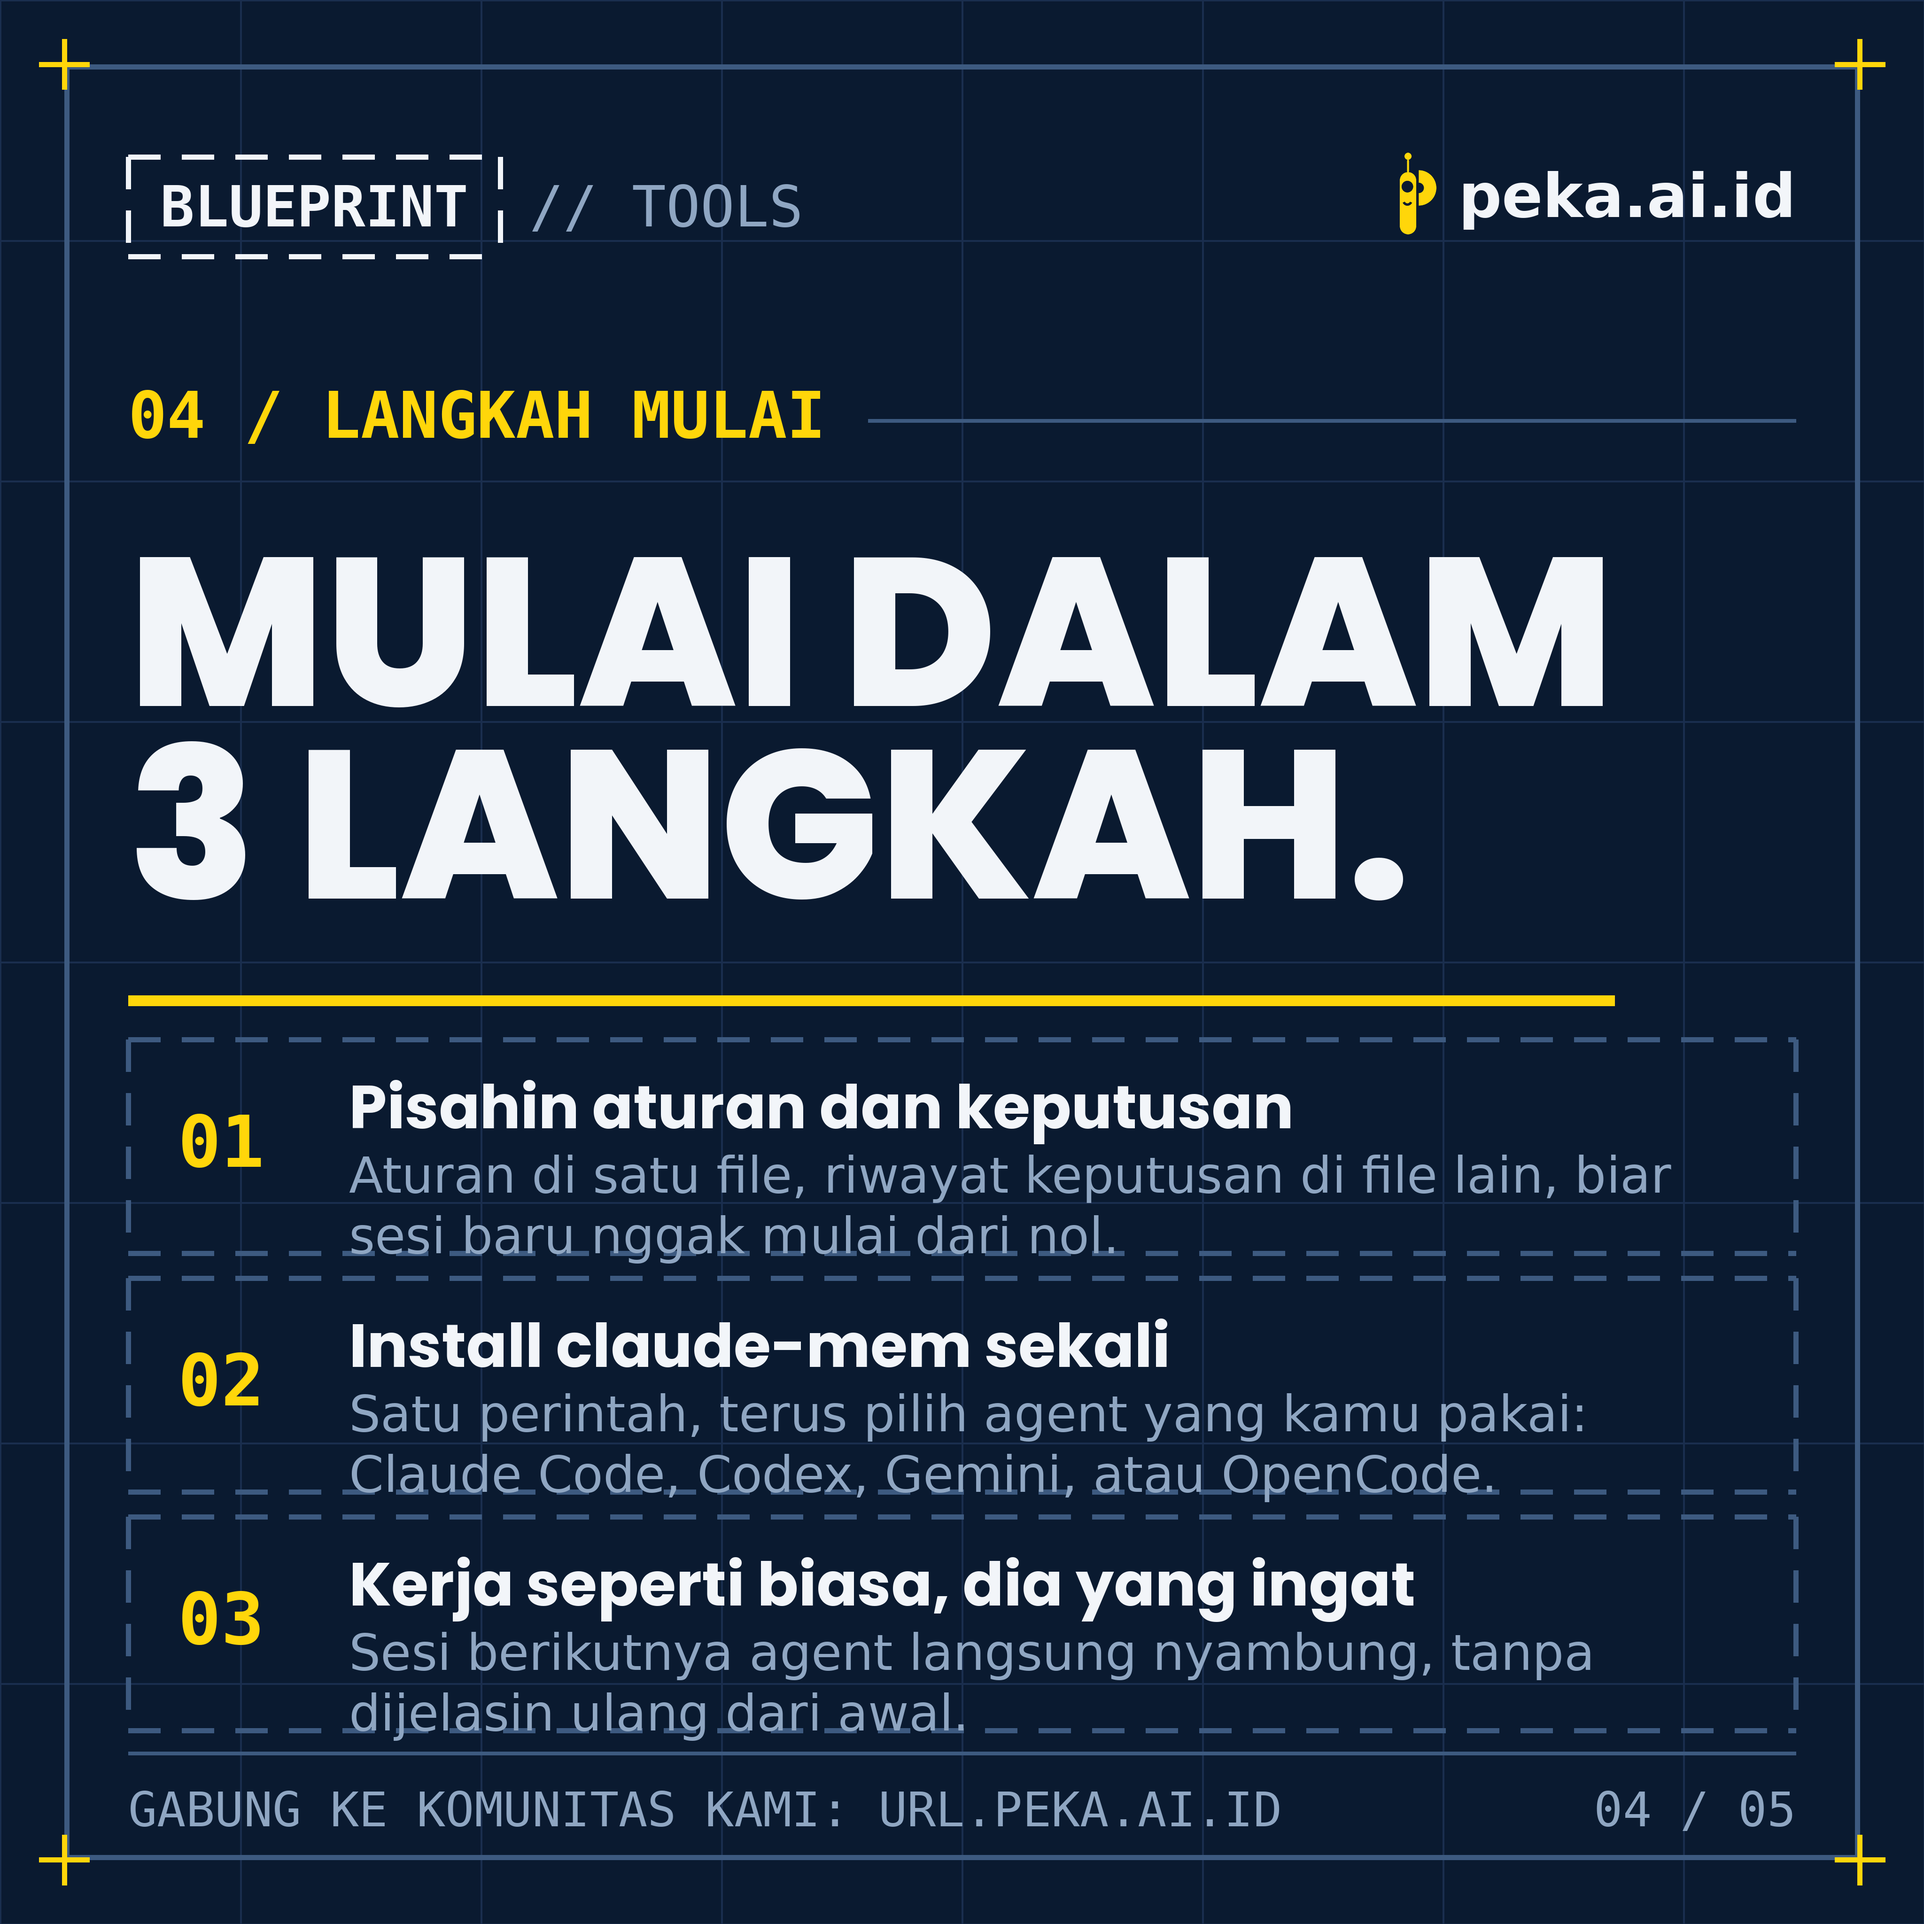
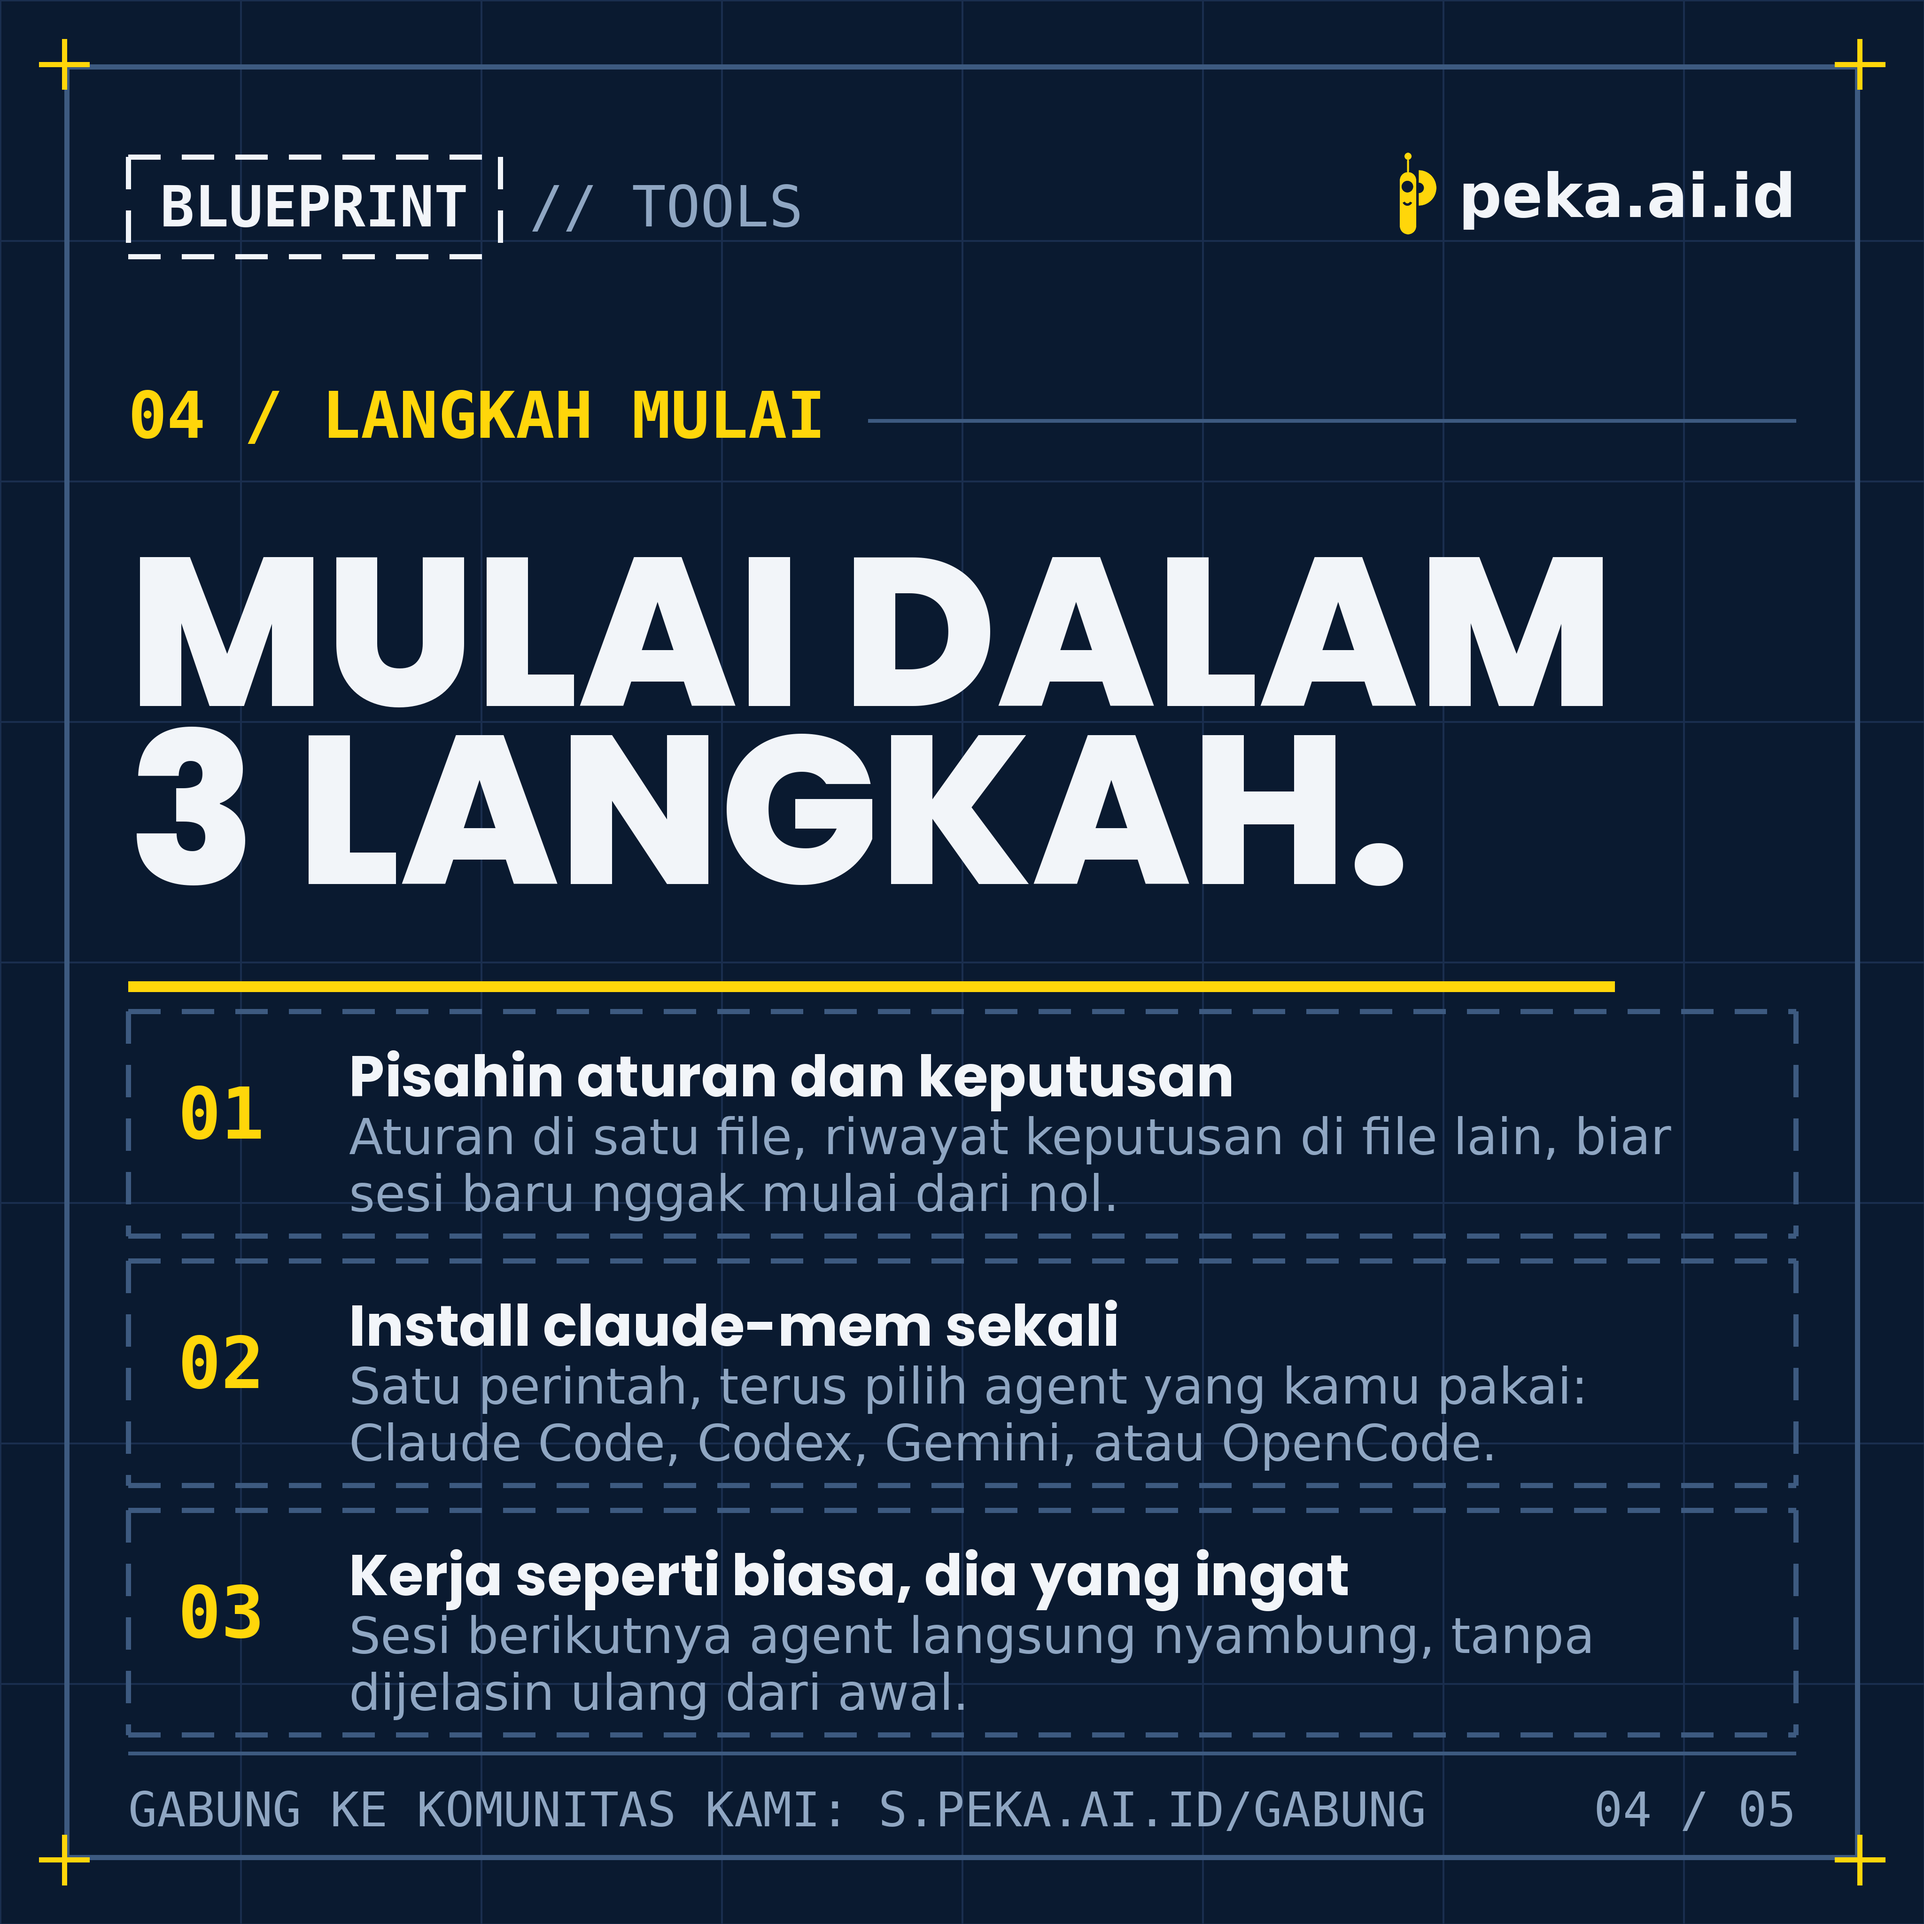
Auto sync 2026-11-13 13:22

diff --git a/blueprint/out/2026-11-06-claude-mem/post_threads_retry.py b/blueprint/out/2026-11-06-claude-mem/post_threads_retry.py
@@ -1,0 +1,91 @@
+#!/usr/bin/env python3
+"""Retry the BLUEPRINT #02 (thedotmack/claude-mem) Threads carousel.
+
+Threads-only retry: IG + FB reels already LIVE since 6 Nov 2026, do NOT
+re-post them. Idempotent: a marker file records the posted URL + post ID;
+a re-run that finds the marker exits 0 without posting again, so a
+timed-out command that actually posted is never repeated.
+
+Usage: python3 post_threads_retry.py
+Run from a session where the approval card surfaces. Exits non-zero
+on the first failed step.
+"""
+import json
+import subprocess
+import sys
+from pathlib import Path
+
+OUT = Path("/home/hatch/workspace/peka-content/blueprint/out/2026-11-06-claude-mem")
+CAROUSEL = OUT / "carousel"
+SLIDES = [CAROUSEL / f"blueprint-0{i}.png" for i in range(1, 6)]
+CAPTION = OUT / "caption-threads.txt"
+DONE_FILE = OUT / "post-threads-done.txt"
+THR = "17841417164011141"
+CLI = "/opt/hatch/bin/threads-cli"
+
+
+def done_markers():
+    if DONE_FILE.exists():
+        return set(DONE_FILE.read_text().splitlines())
+    return set()
+
+
+def log(line):
+    with DONE_FILE.open("a") as f:
+        f.write(line + "\n")
+    print(line)
+
+
+def done_has(prefix):
+    return any(m.startswith(prefix) for m in done_markers())
+
+
+def done_value(prefix):
+    for m in done_markers():
+        if m.startswith(prefix):
+            return m.split(" ", 1)[1] if " " in m else ""
+    return ""
+
+
+def run(cmd, label):
+    print(f">>> {label}: {' '.join(cmd[:4])} ...")
+    r = subprocess.run(cmd, capture_output=True, text=True)
+    if r.returncode != 0:
+        print(f"FAILED {label}\nSTDOUT: {r.stdout}\nSTDERR: {r.stderr}", file=sys.stderr)
+        sys.exit(3)
+    print(f"<<< {label} OK: {r.stdout.strip()[:300]}")
+    return r.stdout.strip()
+
+
+def main():
+    for s in SLIDES:
+        assert s.exists(), f"missing slide {s}"
+    assert CAPTION.exists(), "missing caption-threads.txt"
+    text = CAPTION.read_text().strip()
+    assert len(text) <= 500, f"Threads caption {len(text)} chars > 500"
+    assert "#AI" in text.splitlines()[-1], "closing tag must be #AI"
+    assert "http" not in text, "no link allowed in Threads caption"
+
+    if done_has("THREADS_ROOT_OK"):
+        print("ALREADY POSTED:", done_value("THREADS_ROOT_OK"))
+        print("POST_ID:", done_value("THREADS_ROOT_ID"))
+        return
+
+    cmd = [CLI, "publish-post", "--account-id", THR]
+    for s in SLIDES:
+        cmd += ["--media-item", json.dumps({"file": str(s)})]
+    cmd += ["--text", text]
+    out = run(cmd, "THREADS_ROOT")
+    root_id = json.loads(out)["post_id"]
+    out2 = run([CLI, "post", "--account-id", THR, "--post-id", root_id],
+               f"THREADS_RESOLVE {root_id}")
+    try:
+        root_url = json.loads(out2)["posts"][0]["url"]
+    except (ValueError, KeyError, IndexError, TypeError):
+        root_url = root_id
+    log(f"THREADS_ROOT_OK {root_url}")
+    log(f"THREADS_ROOT_ID {root_id}")
+
+
+if __name__ == "__main__":
+    main()

diff --git a/blueprint/blueprint.py b/blueprint/blueprint.py
@@ -417,22 +417,30 @@ def steps(spec, out_dir, page, total):
     header(img, d)
     section_label(d, 212, "%02d / LANGKAH MULAI" % page)
     lines = ["MULAI DALAM", "3 LANGKAH."]
-    rule_y = headline_block(d, lines, 272, 108, 118, X(936))
-    y = X(rule_y + 22)
-    for i, st in enumerate(spec["steps"]):
-        dashed_rect(d, (X(72), y, X(1008), y + X(120)), HAIR, width=3)
-        d.text((X(100), y + X(34)), "%02d" % (i + 1), font=mono(40, True), fill=YEL)
-        title_lines = wrap(d, st["title"], bold(34), X(788))[:2]
+    rule_y = headline_block(d, lines, 272, 100, 118, X(936))
+    # Measure every step first: box height must fit the tallest content
+    # (1-line title + 2-line desc, or 2-line title + 1-line desc). Fixed
+    # 120u boxes let 2-line descs strike through the bottom border.
+    measured = []
+    for st in spec["steps"]:
+        title_lines = wrap(d, st["title"], bold(32), X(788))[:2]
         desc_lines = wrap(d, st["desc"], body(28), X(788))
         desc_lines = desc_lines[: max(1, 3 - len(title_lines))]
+        measured.append((title_lines, desc_lines))
+    box_h = max(14 + len(t) * 38 + 2 + len(dl) * 32 + 8 for t, dl in measured)
+    pitch = box_h + 14
+    y = X(rule_y + 14)
+    for i, (st, (title_lines, desc_lines)) in enumerate(zip(spec["steps"], measured)):
+        dashed_rect(d, (X(72), y, X(1008), y + X(box_h)), HAIR, width=3)
+        d.text((X(100), y + X(34)), "%02d" % (i + 1), font=mono(40, True), fill=YEL)
         ty = y + X(14)
         for tline in title_lines:
-            d.text((X(196), ty), tline, font=bold(34), fill=WHITE)
-            ty += X(42)
+            d.text((X(196), ty), tline, font=bold(32), fill=WHITE)
+            ty += X(38)
         for dline in desc_lines:
-            d.text((X(196), ty + X(4)), dline, font=body(28), fill=MUTED)
-            ty += X(34)
-        y += X(134)
+            d.text((X(196), ty + X(2)), dline, font=body(28), fill=MUTED)
+            ty += X(32)
+        y += X(pitch)
     footer(d, page, total)
     img.save(out_dir + "/blueprint-%02d.png" % page)
 
